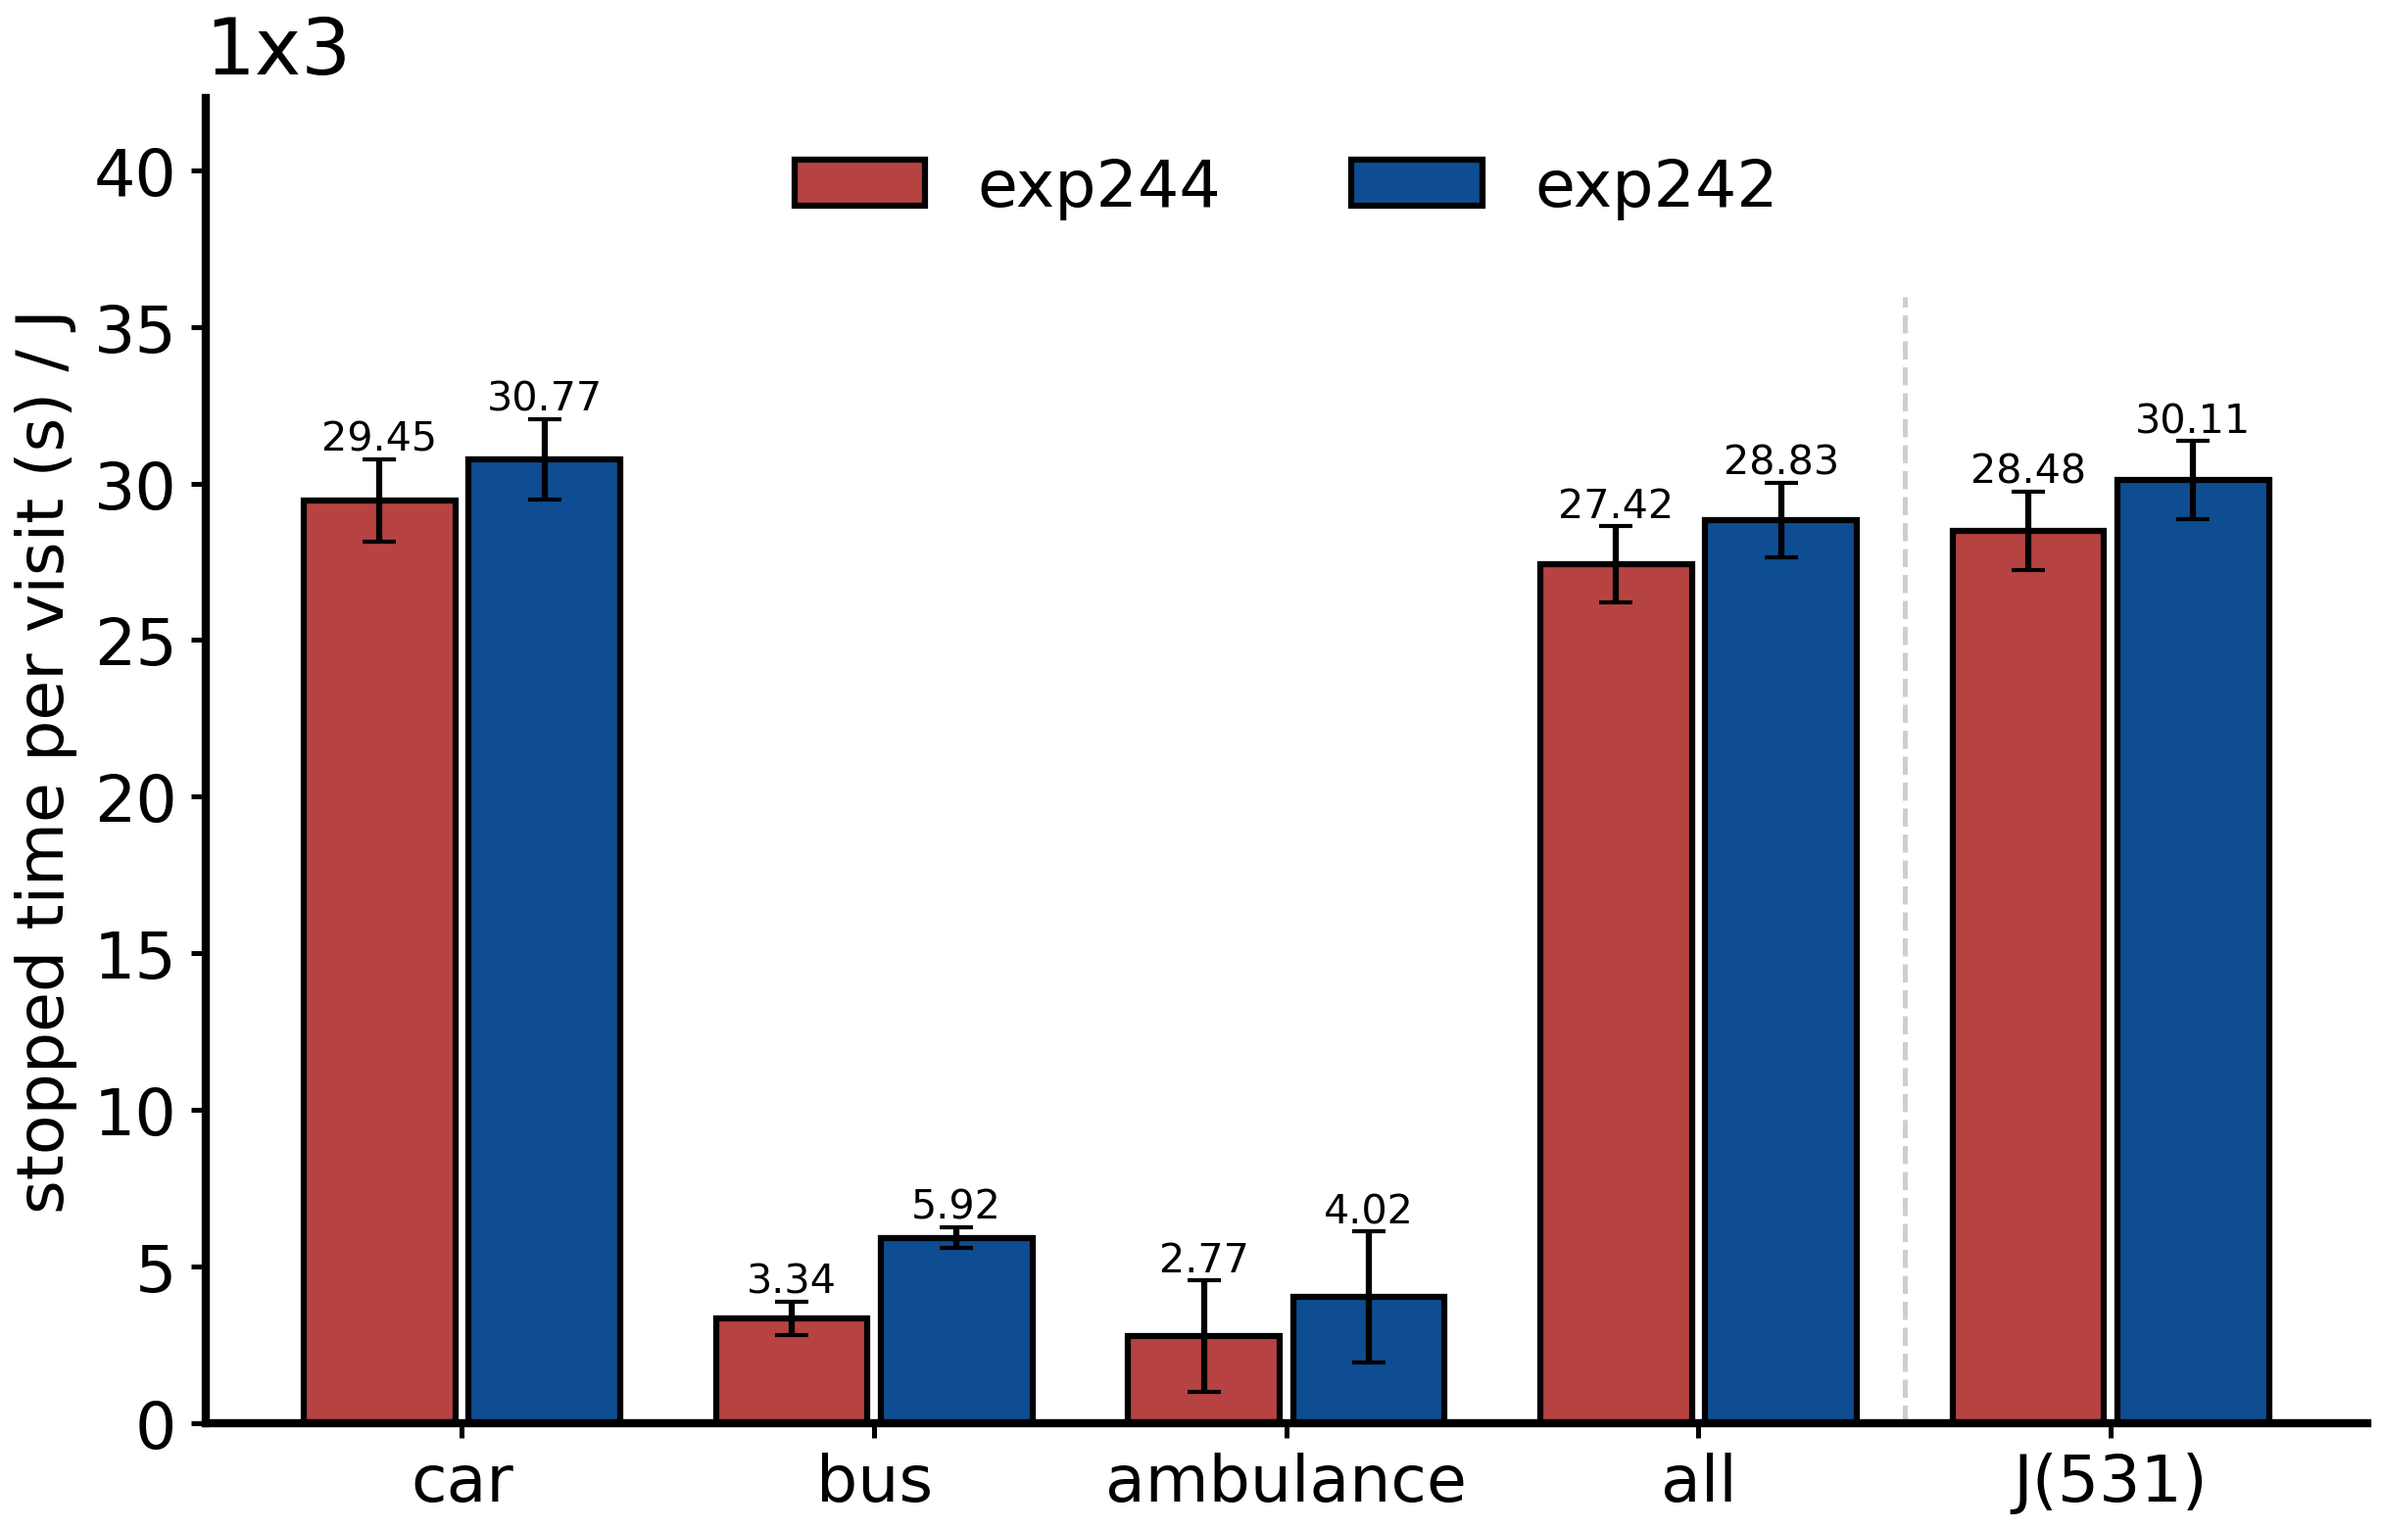
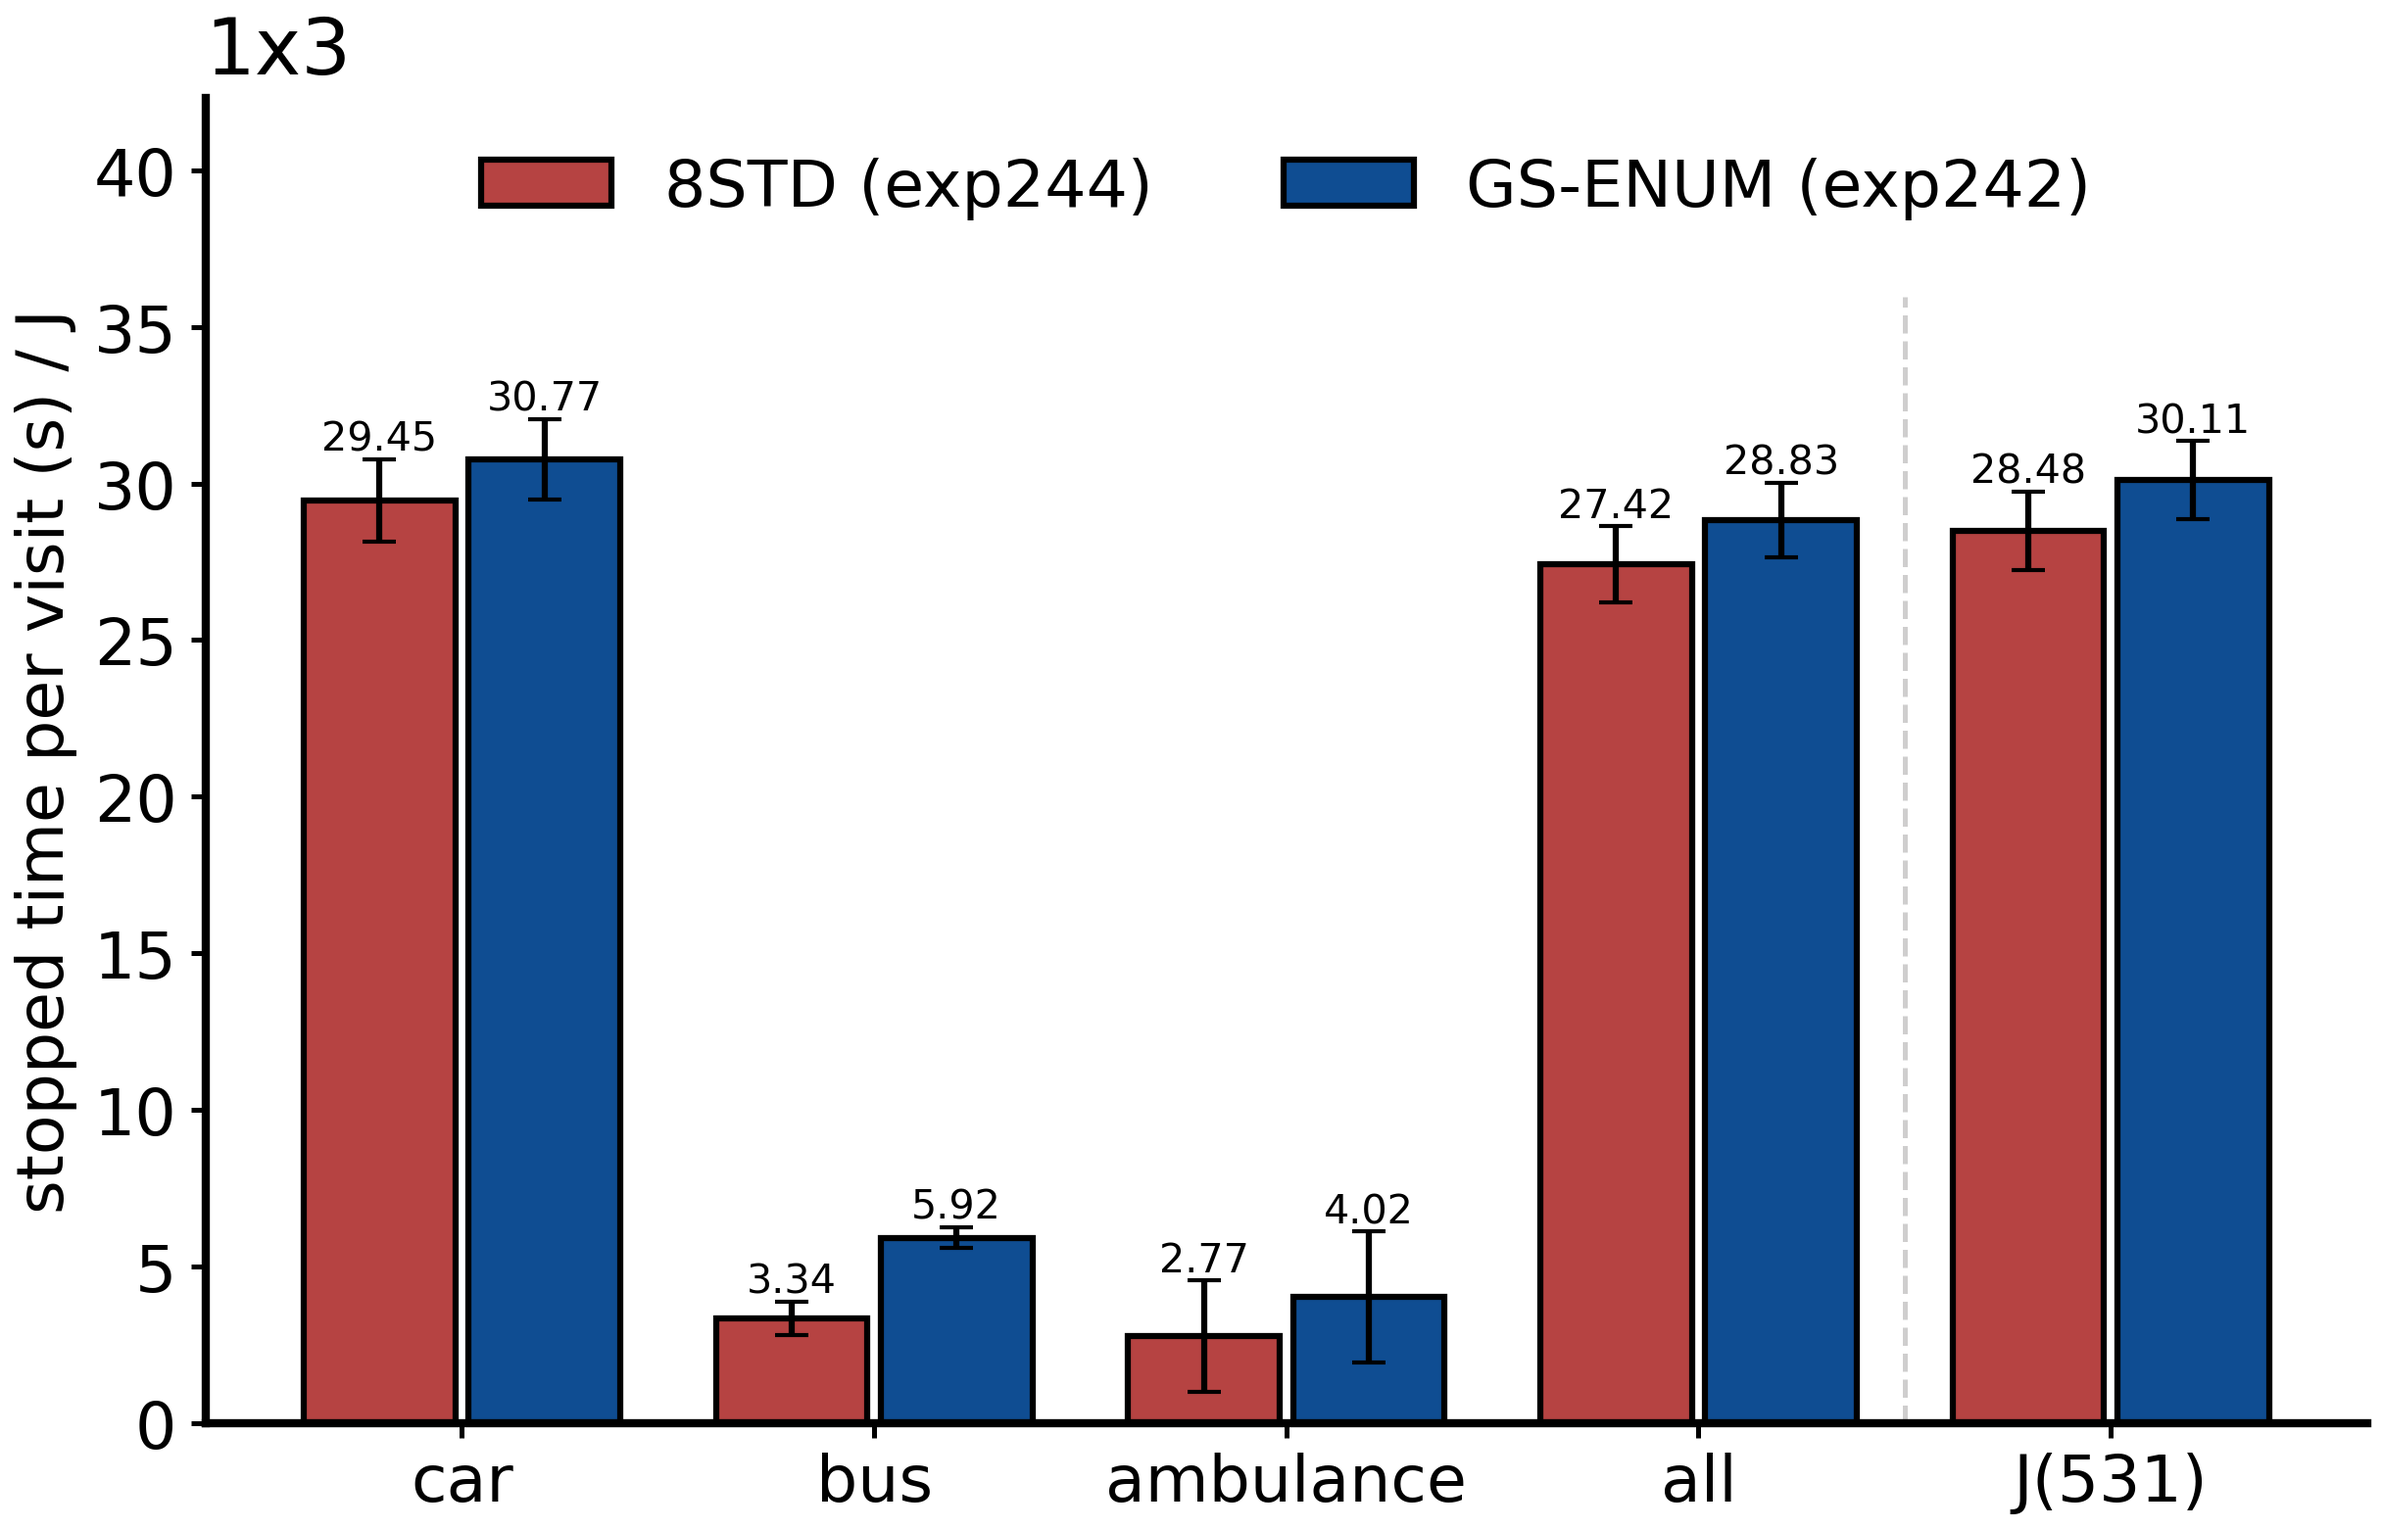
对比图图例改为 方法名 (exp编号): 8STD (expNNN) / GS-ENUM (expNNN)

Changed region(s): [[0.1851, 0.0922, 0.8638, 0.1537]]

diff --git a/experiments/tools/figures/plot_main_comparison_2026-09-02.py b/experiments/tools/figures/plot_main_comparison_2026-09-02.py
@@ -69,7 +69,8 @@ def main():
     colors = [PALETTE["red_strong"], PALETTE["blue_main"]]
     for sc in SCEN:
         fig, ax = plt.subplots(figsize=(8.5, 5.6))
-        make_grouped_bar_err(ax, CATS, [sc["std"], sc["gs"]], [sc["std_e"], sc["gs_e"]], list(sc["exps"]), colors,
+        make_grouped_bar_err(ax, CATS, [sc["std"], sc["gs"]], [sc["std_e"], sc["gs_e"]],
+                             [f"8STD ({sc['exps'][0]})", f"GS-ENUM ({sc['exps'][1]})"], colors,
                              ylabel="stopped time per visit (s) / J")
         ax.set_title(sc["name"], loc="left")
         ax.axvline(3.5, ymax=0.85, color=PALETTE["neutral"], linewidth=1.2, linestyle="--", zorder=0)
